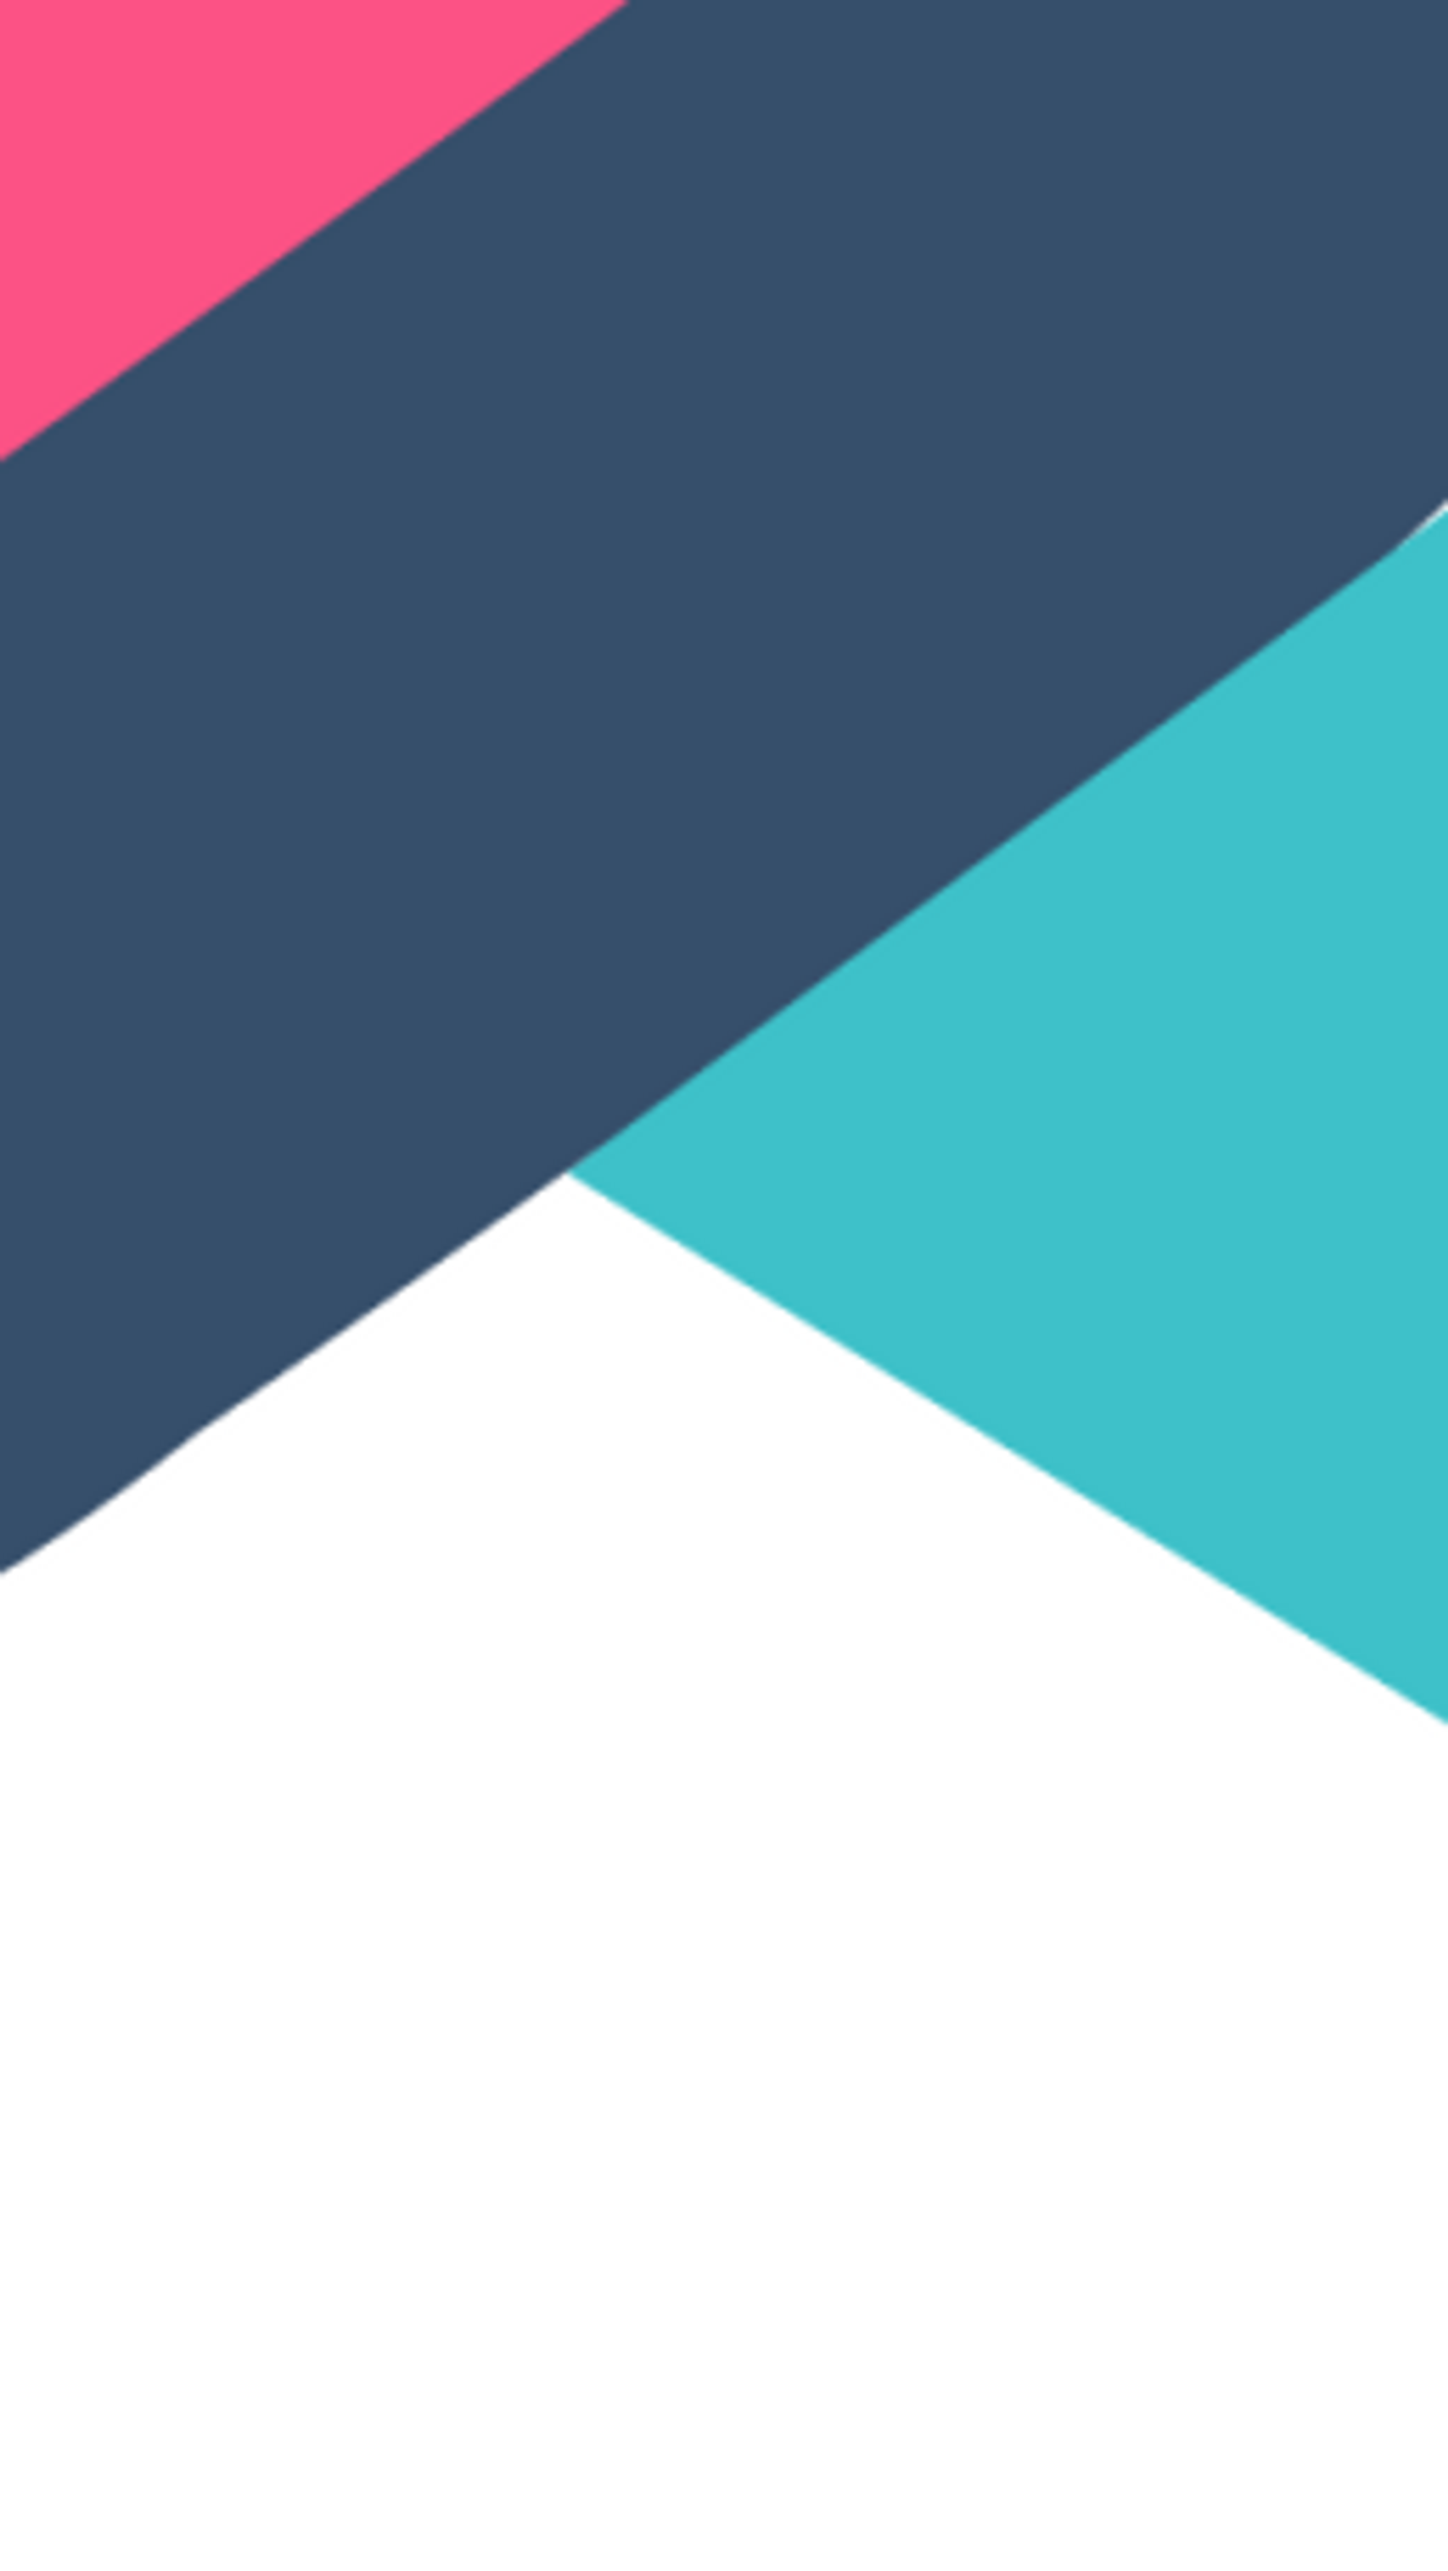
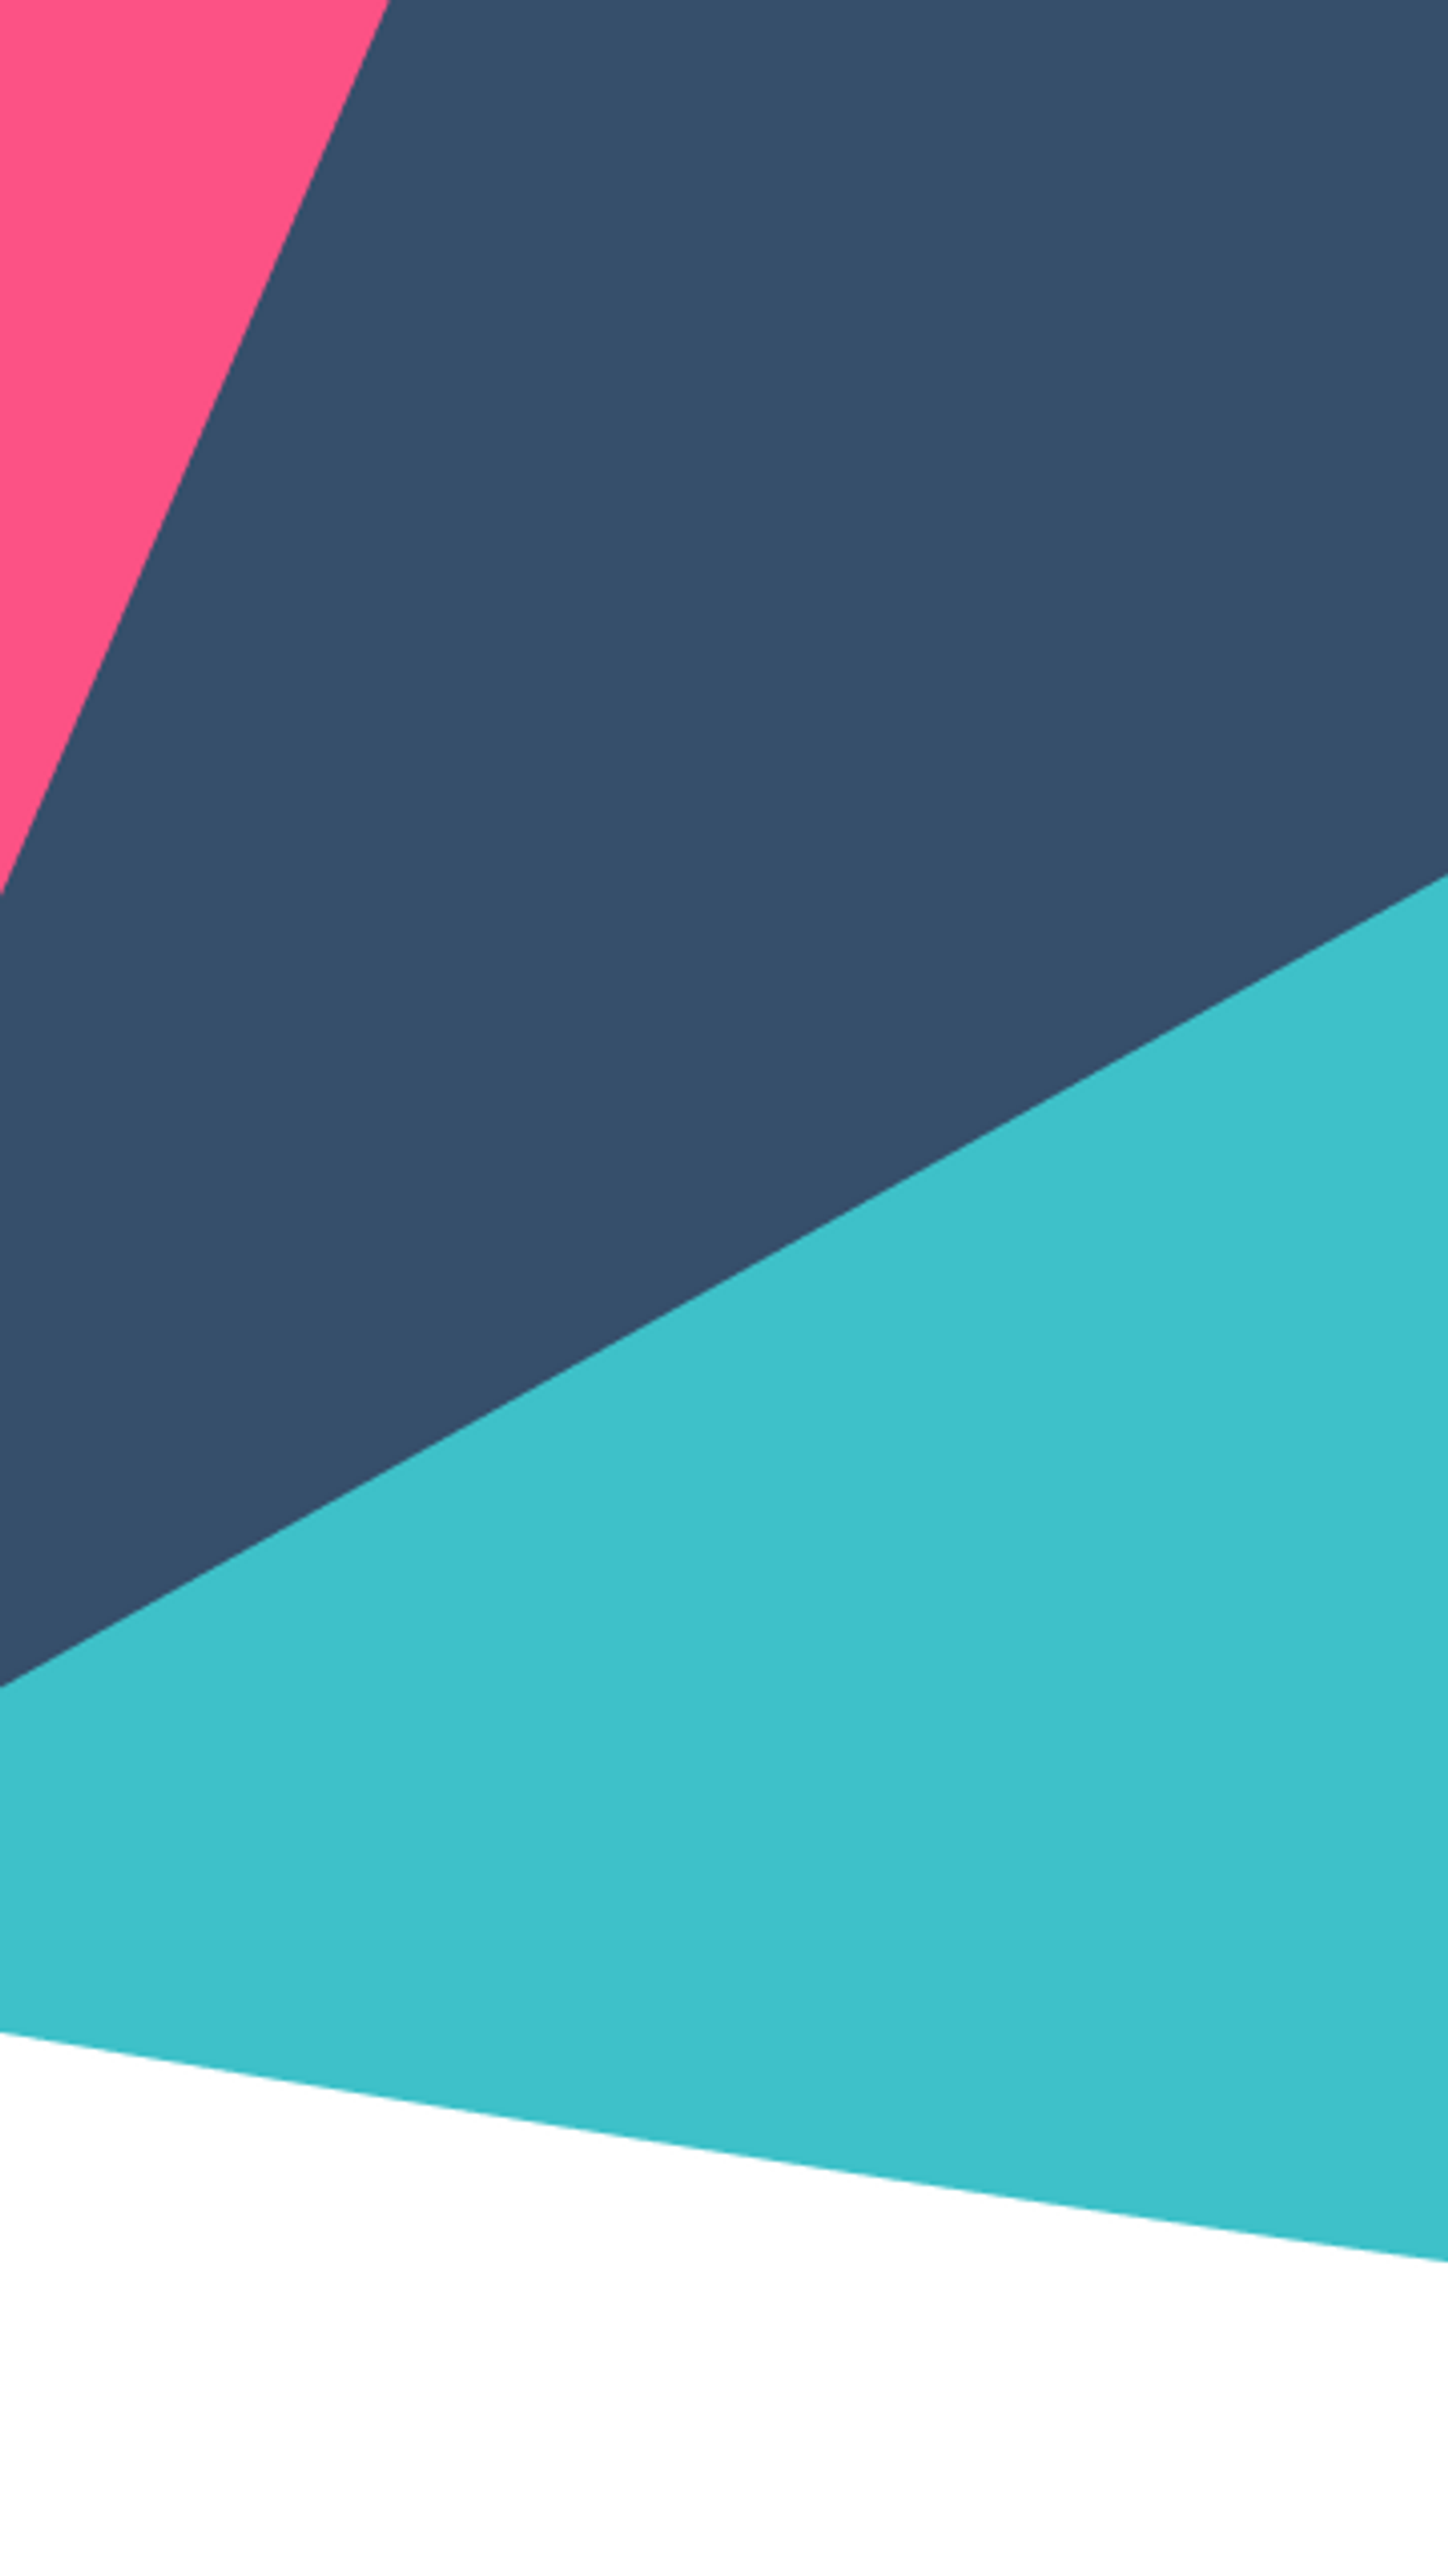
Layout da tela de login finalizado

diff --git a/lib/app/login.dart b/lib/app/login.dart
@@ -1,3 +1,4 @@
+import 'package:autentication/app/register.dart';
 import 'package:flutter/material.dart';
 
 class Login extends StatefulWidget {
@@ -9,40 +10,149 @@ class Login extends StatefulWidget {
 
 class _LoginState extends State<Login> {
   final TextEditingController _emailController = TextEditingController();
+  final TextEditingController _passwordController = TextEditingController();
   @override
   Widget build(BuildContext context) {
     return Scaffold(
-      body: Container(
-        decoration: const BoxDecoration(
-          image: DecorationImage(
-            image: AssetImage("assets/images/login.png"),
+      body: SingleChildScrollView(
+        child: Container(
+          padding: const EdgeInsets.only(
+            top: 32,
+            left: 24,
+            right: 16,
           ),
-        ),
-        child: Column(
-          mainAxisAlignment: MainAxisAlignment.center,
-          crossAxisAlignment: CrossAxisAlignment.center,
-          children: [
-            Container(
-              padding: const EdgeInsets.symmetric(
-                vertical: 100,
-                horizontal: 32,
-              ),
-              child: const Text("Hello Again"),
+          height: MediaQuery.of(context).size.height,
+          width: MediaQuery.of(context).size.width,
+          decoration: const BoxDecoration(
+            image: DecorationImage(
+              image: AssetImage("assets/images/login.png"),
+              fit: BoxFit.cover,
             ),
-            TextField(
-              keyboardType: TextInputType.emailAddress,
-              controller: _emailController,
-              decoration: const InputDecoration(
-                hintText: "E-mail",
-                contentPadding: EdgeInsets.fromLTRB(32, 16, 32, 16),
-                enabled: true,
-                hintStyle: TextStyle(
-                  color: Colors.grey,
-                  fontSize: 16,
+          ),
+          child: Column(
+            mainAxisAlignment: MainAxisAlignment.center,
+            crossAxisAlignment: CrossAxisAlignment.start,
+            children: [
+              const Padding(
+                padding: EdgeInsets.only(
+                  top: 100,
+                  bottom: 200,
+                ),
+                child: Text(
+                  "Hello\nAgain!",
+                  style: TextStyle(
+                    fontSize: 50,
+                    color: Colors.white,
+                    fontWeight: FontWeight.bold,
+                  ),
                 ),
               ),
-            ),
-          ],
+              TextField(
+                keyboardType: TextInputType.emailAddress,
+                controller: _emailController,
+                decoration: const InputDecoration(
+                  hintText: "E-mail",
+                  contentPadding: EdgeInsets.fromLTRB(12, 16, 16, 16),
+                  enabled: true,
+                  hintStyle: TextStyle(
+                    color: Colors.grey,
+                    fontSize: 16,
+                  ),
+                  hoverColor: Colors.grey,
+                ),
+              ),
+              const SizedBox(
+                height: 32,
+              ),
+              TextField(
+                keyboardType: TextInputType.emailAddress,
+                controller: _passwordController,
+                obscureText: true,
+                decoration: const InputDecoration(
+                  hintText: "Password",
+                  contentPadding: EdgeInsets.fromLTRB(12, 16, 16, 16),
+                  enabled: true,
+                  hintStyle: TextStyle(
+                    color: Colors.grey,
+                    fontSize: 16,
+                  ),
+                ),
+              ),
+              Padding(
+                padding: const EdgeInsets.only(
+                  top: 32.0,
+                  left: 210,
+                  bottom: 24,
+                ),
+                child: Stack(
+                  fit: StackFit.passthrough,
+                  alignment: Alignment.centerRight,
+                  children: [
+                    Container(
+                      width: 80,
+                      height: 80,
+                      decoration: BoxDecoration(
+                        color: const Color(0xFFFCE38A),
+                        borderRadius: BorderRadius.circular(100),
+                      ),
+                    ),
+                    Padding(
+                      padding: const EdgeInsets.only(
+                        right: 22.0,
+                      ),
+                      child: TextButton(
+                        onPressed: () {},
+                        child: const Text(
+                          "Login",
+                          style: TextStyle(
+                            color: Colors.black,
+                            fontSize: 34,
+                            fontWeight: FontWeight.bold,
+                          ),
+                        ),
+                      ),
+                    ),
+                  ],
+                ),
+              ),
+              Row(
+                mainAxisAlignment: MainAxisAlignment.spaceBetween,
+                children: [
+                  GestureDetector(
+                    onTap: () {
+                      Navigator.push(
+                        context,
+                        MaterialPageRoute(
+                          builder: (context) => const Register(),
+                        ),
+                      );
+                    },
+                    child: const Text(
+                      "Register",
+                      style: TextStyle(
+                        fontSize: 14,
+                        fontWeight: FontWeight.w700,
+                        decoration: TextDecoration.underline,
+                        decorationColor: Colors.grey,
+                      ),
+                    ),
+                  ),
+                  GestureDetector(
+                    onTap: () {},
+                    child: const Text(
+                      "Forgot Password",
+                      style: TextStyle(
+                        fontSize: 14,
+                        fontWeight: FontWeight.w700,
+                        decoration: TextDecoration.underline,
+                        decorationColor: Colors.grey,
+                      ),
+                    ),
+                  ),
+                ],
+              )
+            ],
+          ),
         ),
       ),
     );
